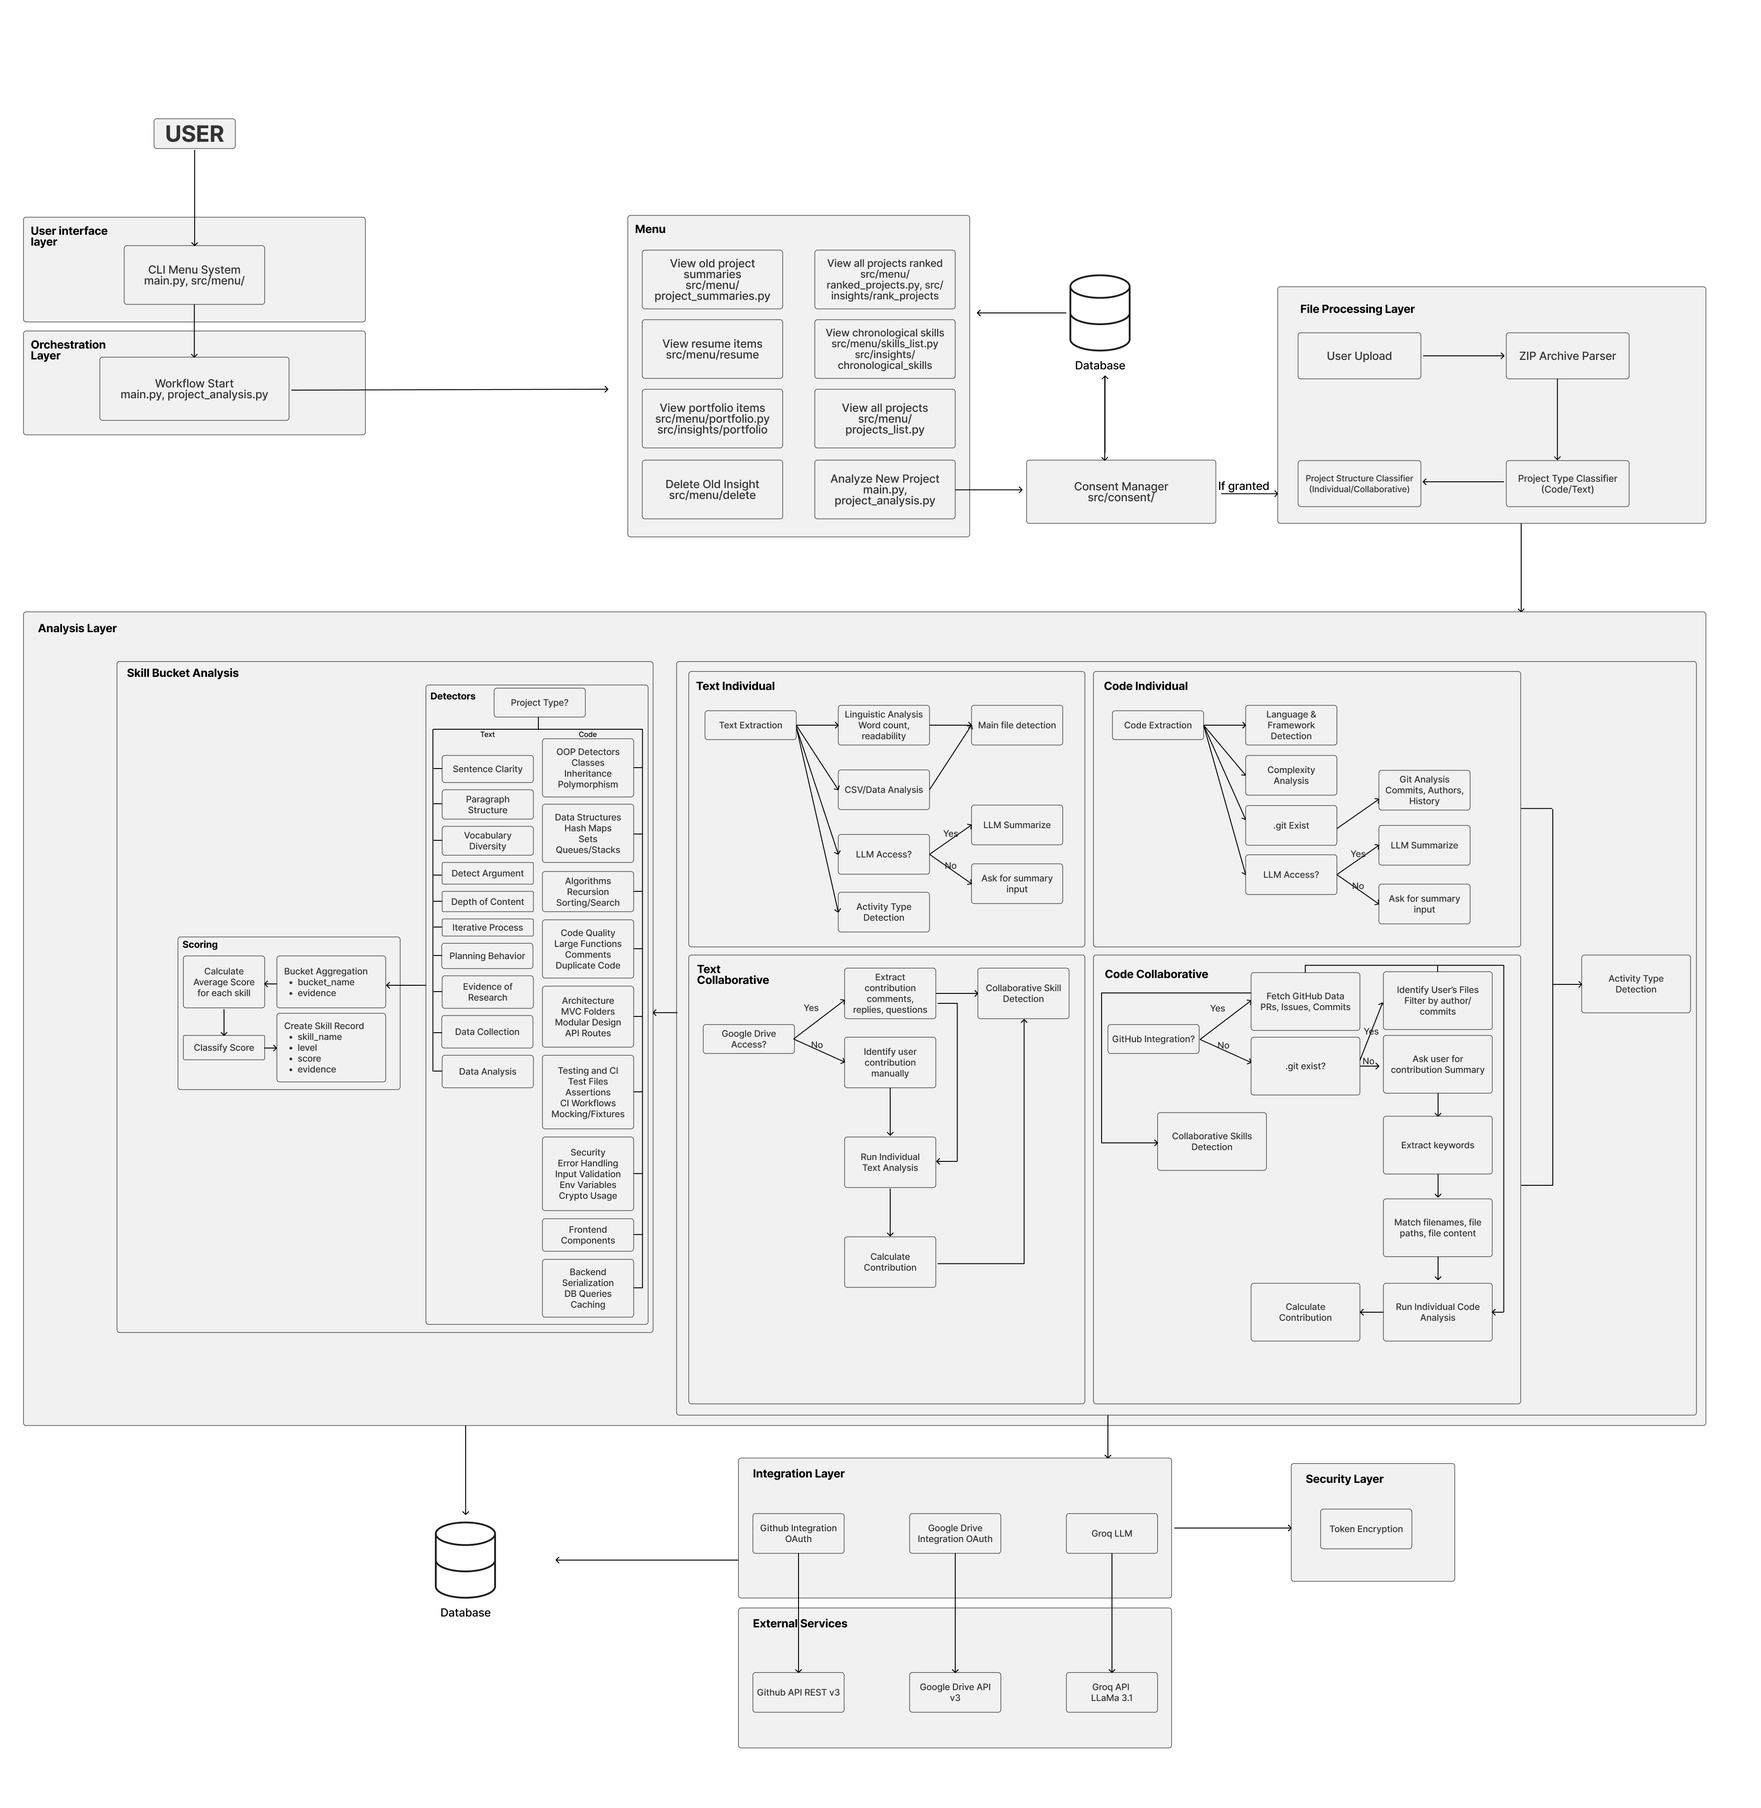
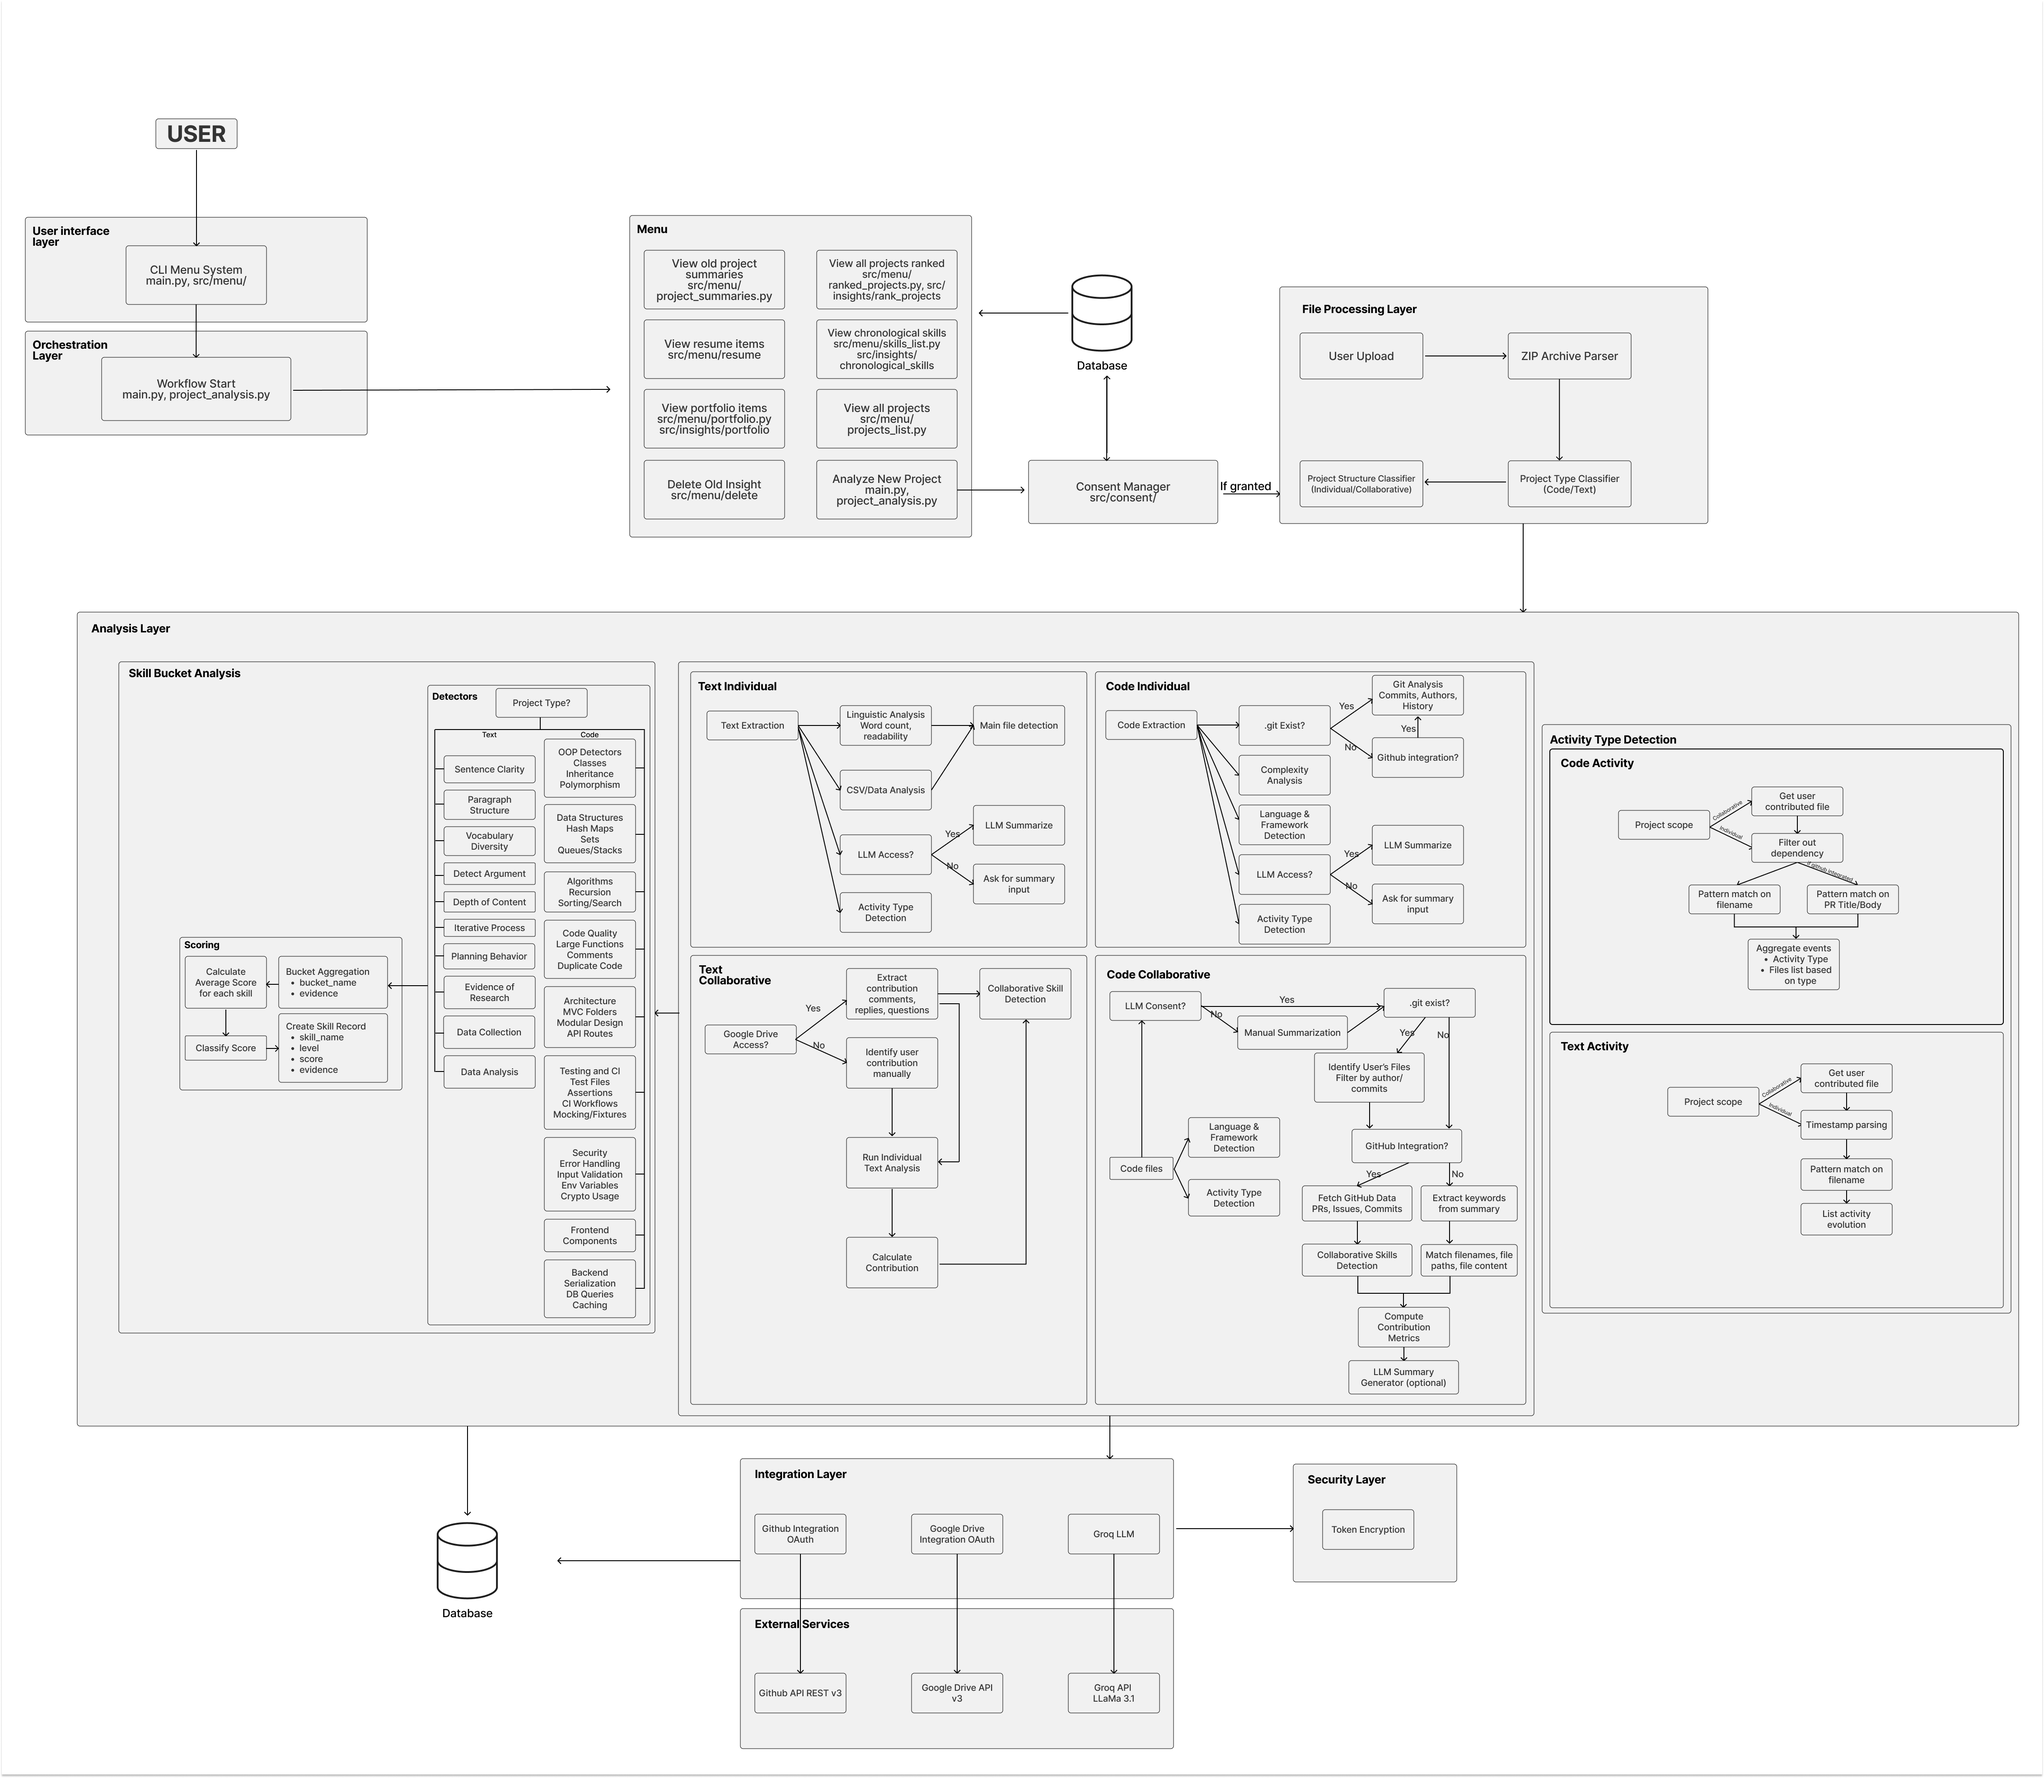
update flows and description

diff --git a/README.md b/README.md
@@ -166,24 +166,28 @@ The flow starts when the user login, and choose one of the 8 menu:
 
    There are four path of analysis:
 
-   - For individual code project, language, framework, complexity, git commits, author, and history will be analyzed.
+   - For individual code project, language, framework, complexity, git commits, author, and history will be analyzed. If .git does not exist, it will ask for github integration. If integration not granted, git analysis will be skipped.
 
    - Individual Text Analysis will go through linguistic and readability analysis, CSV analysis, and activity type detection.
 
-   - Collaborative code project will ask for github integration. If the user choose to integrate their github account, PRs, Issues, and Commits data will be fetched, and user's individual contribution will analyzed by running the individual code analysis. The github data will also be used to detect the collaborative skills.
+   - Collaborative code project analysis will detect for .git file. If it exist, it will be used to filter user's files, and analyze contribution metrics. Github integration will be asked for despite the existence of .git files. If the user choose to integrate their github account, PRs, Issues, and Commits data will be fetched, and user's individual contribution will be analyzed. The github data will also be used to detect the collaborative skills.
 
-      However, if user chose not to integrate their github data, .git files will still be analyzed if exist. It will be used to identify user's contribution. Finally, if .git does not exist, user will be asked to enter their contribution summary. This summary will be used to detect their contribution. 
+      However, if user chose not to integrate their github data, and if .git does not exist, user will be asked to enter their contribution summary. This summary will be used to detect their contribution by matching filenames, file paths and file content. 
 
-      All user's individual contribution will go through the individual code analysis.
+      Code files will go through the language & framework detection and activity type detection.
 
    - Collaborative text project will ask the user to give access to their google drive. The Google API pipeline will extract contribution by fetching the comments, replies, questions in the document. It will be used to calculate collaborative skill.
 
       However, if user does not give access to google, user will be asked which files and which part of main file did the user work on. Individual contribution files will be passed to the individual text pipeline and contribution will be calculated.
 
-   All files will be passed to the skill bucket analysis layer, where existence check of each criteria of each skills will be done. Each skills will have score and will be given level based on it's score.
+   All files (and contributed files for collaborative project) will be passed to the skill bucket analysis layer, where existence check of each criteria of each skills will be done. Each skills will have score and will be given level based on it's score.
 
    All of the analysis result has their own tables, and overall project summaries result will be stored to the project_summaries table.
 
+   Activity type analysis has two path:
+   - Code Activity, pattern match will be done on filename and PR Title/Body (if github integrated), then stored to database that lists activity type proportion, activity types list and files list for each activity type.
+
+   - Text activity, pattern match will be done on filename. Timestamp will be parsed that will be used to list activity type evolution (created, modified, type listed chronologically)
 
 ## Level 1 Data Flow Diagram
 
